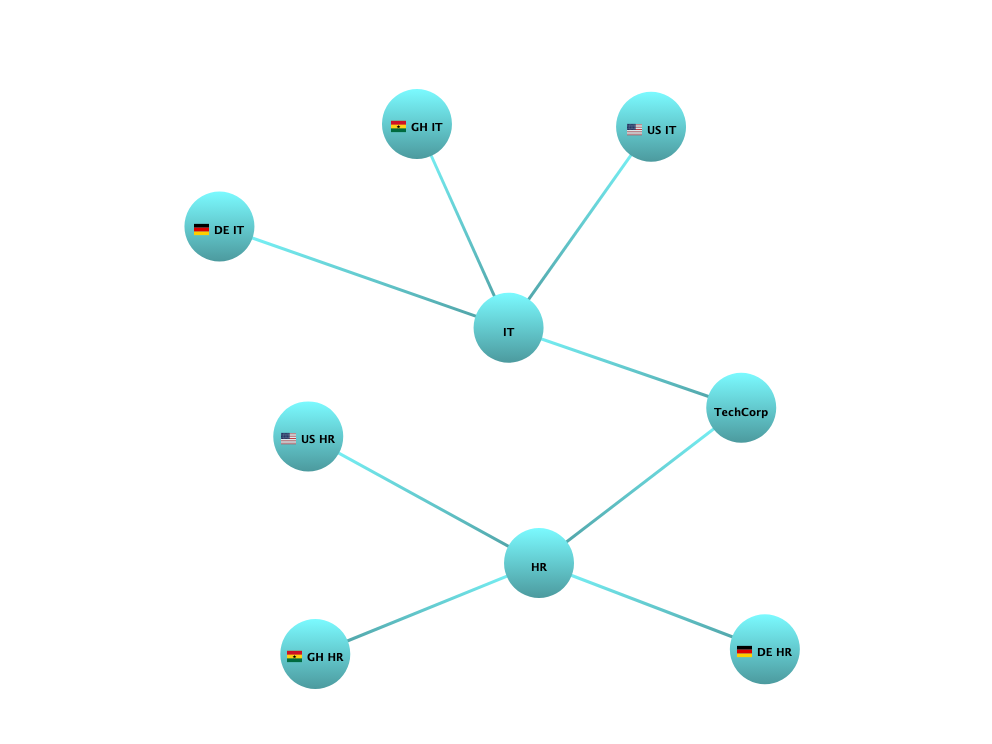
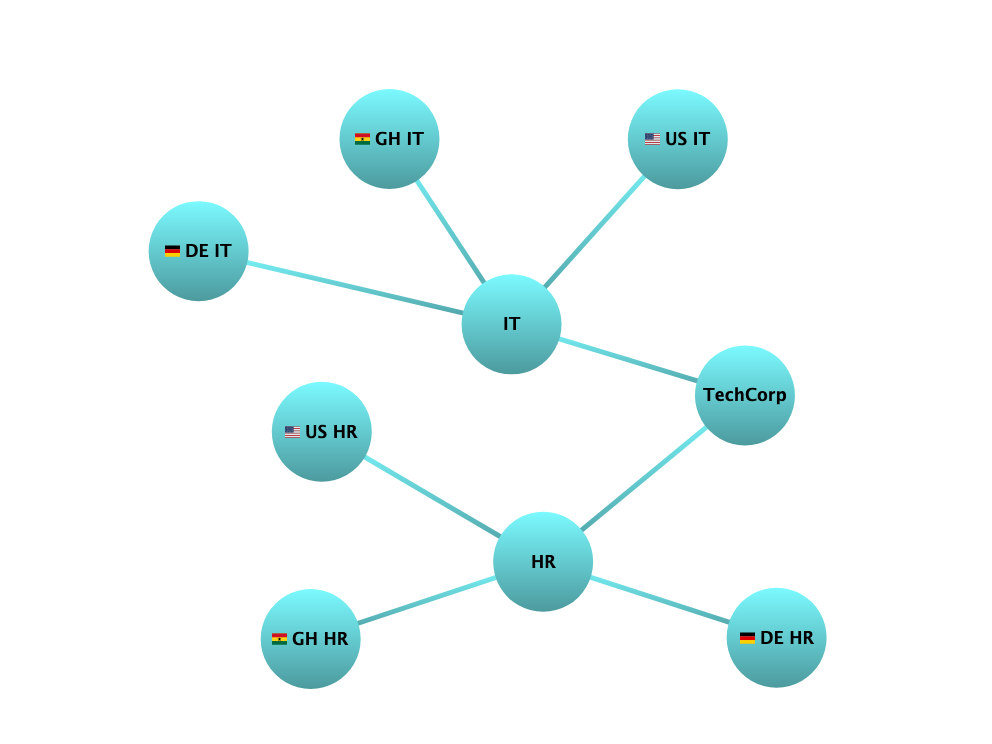
Added country flags

diff --git a/plot.html b/plot.html
@@ -14,9 +14,9 @@
 </head>
 <body>
 <div id="htmlwidget_container">
-  <div class="highchartzero html-widget html-fill-item" id="htmlwidget-09807de4f054bcbbd1b8" style="width:100%;height:500px;"></div>
+  <div class="highchartzero html-widget html-fill-item" id="htmlwidget-de29ecff2802d35da219" style="width:100%;height:500px;"></div>
 </div>
-<script type="application/json" data-for="htmlwidget-09807de4f054bcbbd1b8">{"x":{"hc_opts":{"series":[{"data":[{"from":"TechCorp","to":"HR"},{"from":"TechCorp","to":"IT"},{"from":"HR","to":"DE HR"},{"from":"IT","to":"DE IT"},{"from":"HR","to":"GH HR"},{"from":"IT","to":"GH IT"},{"from":"HR","to":"US HR"},{"from":"IT","to":"US IT"}],"type":"networkgraph","layoutAlgorithm":{"enableSimulation":true,"integration":"verlet"},"marker":{"symbol":"circle","radius":35,"lineColor":"none","fillColor":{"linearGradient":{"x1":0,"y1":1,"x2":0,"y2":0},"stops":[["0","#4C9A9E"],["1","#7BFAFF"]]},"states":{"hover":{"fillColor":"#E91E63","lineColor":"none","radius":35}}},"link":{"color":{"linearGradient":{"x1":0,"y1":1,"x2":0,"y2":0},"stops":[["0","#4C9A9E"],["1","#7BFAFF"]]},"width":"3"},"dataLabels":{"enabled":true,"useHTML":true,"y":15,"linkFormat":"","formatter":"function() {\n      var flagURL = 'https://cdnjs.cloudflare.com/ajax/libs/flag-icon-css/3.4.3/flags/4x3/';\n      var countryMap = { 'DE': 'de', 'GH': 'gh', 'US': 'us' };\n      var country = this.key.split(' ')[0];\n      var flagIcon = countryMap[country] ? '<img src=\"' + flagURL + countryMap[country] + '.svg\" style=\"width: 15px; height: 15px; margin-right: 5px; vertical-align: middle;\">' : '';\n      return flagIcon + '<span style=\"vertical-align: middle;\">' + this.key + '<\/span>';\n    }"}}],"title":{"text":"Network Graph","style":{"color":"white","fontSize":"20px","fontWeight":"bold"}},"tooltip":{"enabled":true,"useHTML":true,"formatter":"function() {\n            if (this.point.id === 'DE HR' || this.point.id === 'GH HR' || this.point.id === 'US HR' || this.point.id === 'DE IT' || this.point.id === 'GH IT' || this.point.id === 'US IT') {\n              return this.point.name + '<br>XY: ' + this.point.xy + '<br>MN: ' + this.point.mn;\n            } else {\n              return this.point.name;\n            }\n          }"},"credits":{"enabled":false}},"fonts":[]},"evals":["hc_opts.series.0.dataLabels.formatter","hc_opts.tooltip.formatter"],"jsHooks":[]}</script>
-<script type="application/htmlwidget-sizing" data-for="htmlwidget-09807de4f054bcbbd1b8">{"viewer":{"width":"100%","height":350,"padding":15,"fill":true},"browser":{"width":"100%","height":500,"padding":40,"fill":true}}</script>
+<script type="application/json" data-for="htmlwidget-de29ecff2802d35da219">{"x":{"hc_opts":{"series":[{"data":[{"from":"TechCorp","to":"HR"},{"from":"TechCorp","to":"IT"},{"from":"HR","to":"DE HR"},{"from":"IT","to":"DE IT"},{"from":"HR","to":"GH HR"},{"from":"IT","to":"GH IT"},{"from":"HR","to":"US HR"},{"from":"IT","to":"US IT"}],"type":"networkgraph","layoutAlgorithm":{"enableSimulation":true,"integration":"verlet"},"marker":{"symbol":"circle","radius":50,"lineColor":"none","fillColor":{"linearGradient":{"x1":0,"y1":1,"x2":0,"y2":0},"stops":[["0","#4C9A9E"],["1","#7BFAFF"]]},"states":{"hover":{"fillColor":"#E91E63","lineColor":"none","radius":35}}},"link":{"color":{"linearGradient":{"x1":0,"y1":1,"x2":0,"y2":0},"stops":[["0","#4C9A9E"],["1","#7BFAFF"]]},"width":"5"},"dataLabels":{"enabled":true,"useHTML":true,"y":15,"linkFormat":"","style":{"fontSize":"17px","fontWeight":"bold","textOutline":false},"formatter":"function() {\n      var flagURL = 'https://cdnjs.cloudflare.com/ajax/libs/flag-icon-css/3.4.3/flags/4x3/';\n      var countryMap = { 'DE': 'de', 'GH': 'gh', 'US': 'us' };\n      var country = this.key.split(' ')[0];\n      var flagIcon = countryMap[country] ? '<img src=\"' + flagURL + countryMap[country] + '.svg\" style=\"width: 15px; height: 15px; margin-right: 5px; vertical-align: middle;\">' : '';\n      return flagIcon + '<span style=\"vertical-align: middle;\">' + this.key + '<\/span>';\n    }"}}],"title":{"text":"Network Graph","style":{"color":"white","fontSize":"20px","fontWeight":"bold"}},"tooltip":{"enabled":true,"useHTML":true,"formatter":"function() {\n            if (this.point.id === 'DE HR' || this.point.id === 'GH HR' || this.point.id === 'US HR' || this.point.id === 'DE IT' || this.point.id === 'GH IT' || this.point.id === 'US IT') {\n              return this.point.name + '<br>XY: ' + this.point.xy + '<br>MN: ' + this.point.mn;\n            } else {\n              return this.point.name;\n            }\n          }"},"credits":{"enabled":false}},"fonts":[]},"evals":["hc_opts.series.0.dataLabels.formatter","hc_opts.tooltip.formatter"],"jsHooks":[]}</script>
+<script type="application/htmlwidget-sizing" data-for="htmlwidget-de29ecff2802d35da219">{"viewer":{"width":"100%","height":350,"padding":15,"fill":true},"browser":{"width":"100%","height":500,"padding":40,"fill":true}}</script>
 </body>
 </html>

diff --git a/CommuniGraph.md b/CommuniGraph.md
@@ -9,10 +9,6 @@ library(highcharter)
     ##   method            from
     ##   as.zoo.data.frame zoo
 
-    ## Highcharts (www.highcharts.com) is a Highsoft software product which is
-
-    ## not free for commercial and Governmental use
-
 ``` r
 library(dplyr)
 ```
@@ -62,7 +58,7 @@ library(htmlwidgets)
     ),
     marker = list(
       symbol = "circle",
-      radius = 35,
+      radius = 50,
       lineColor = "none",
       # nodes = nodes,
       fillColor = list(
@@ -85,7 +81,7 @@ library(htmlwidgets)
         stops = list(
           c(0, "#4C9A9E"),
           c(1, "#7BFAFF"))),
-      width = '3'
+      width = '5'
     ),
     
     dataLabels = list(
@@ -93,6 +89,11 @@ library(htmlwidgets)
   useHTML = TRUE,
   y = 15,
   linkFormat = "",
+  style = list(
+          fontSize = "17px",
+          fontWeight = "bold",
+          textOutline = FALSE
+        ),
   formatter = JS(
     "function() {
       var flagURL = 'https://cdnjs.cloudflare.com/ajax/libs/flag-icon-css/3.4.3/flags/4x3/';

diff --git a/README.md b/README.md
@@ -95,7 +95,7 @@ library(htmlwidgets)
     ),
     marker = list(
       symbol = "circle",
-      radius = 35,
+      radius = 50,
       lineColor = "none",
       # nodes = nodes,
       fillColor = list(
@@ -118,7 +118,7 @@ library(htmlwidgets)
         stops = list(
           c(0, "#4C9A9E"),
           c(1, "#7BFAFF"))),
-      width = '3'
+      width = '5'
     ),
     
     dataLabels = list(
@@ -126,6 +126,11 @@ library(htmlwidgets)
   useHTML = TRUE,
   y = 15,
   linkFormat = "",
+  style = list(
+          fontSize = "17px",
+          fontWeight = "bold",
+          textOutline = FALSE
+        ),
   formatter = JS(
     "function() {
       var flagURL = 'https://cdnjs.cloudflare.com/ajax/libs/flag-icon-css/3.4.3/flags/4x3/';
